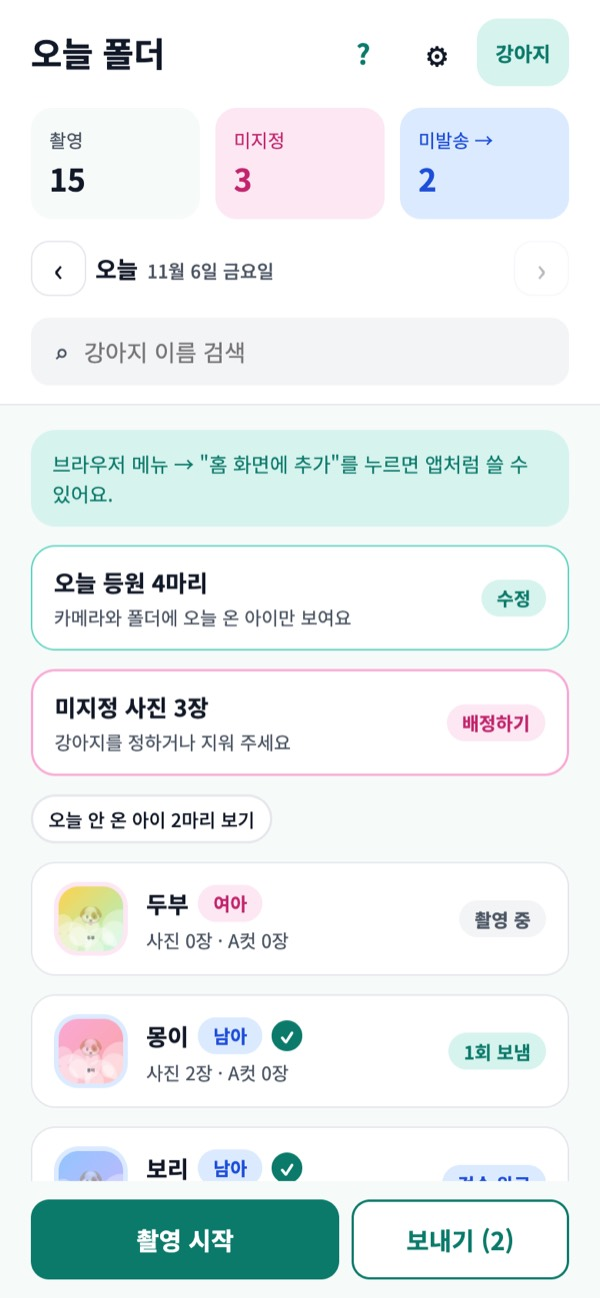
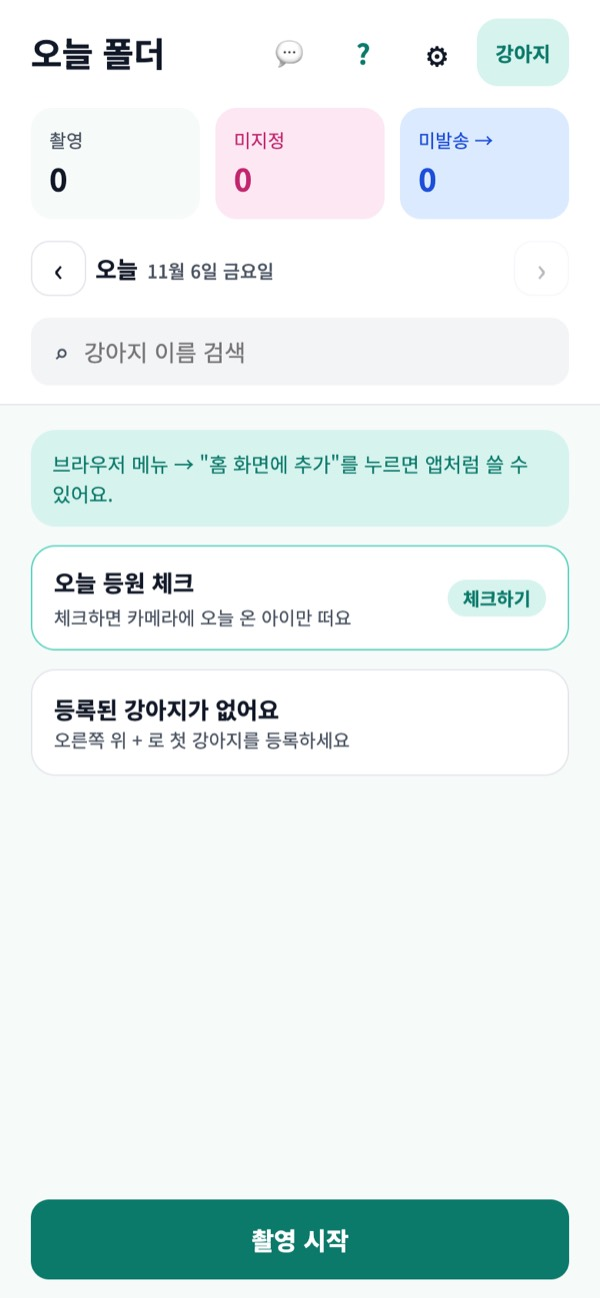
피드백 보내기: 유형·제목·내용·사진 3장, PostHog feedback 이벤트로 전송(사진 축소), 오늘 폴더 💬·설정 카드 진입, 사용 안내 10장과 그림

diff --git a/web/src/screens/Feedback.tsx b/web/src/screens/Feedback.tsx
@@ -1,0 +1,114 @@
+import { useRef, useState } from 'react';
+import { useLocation, useNavigate } from 'react-router-dom';
+
+import { TopBar } from '../components/ui';
+import { track } from '../lib/analytics';
+import { FEEDBACK_TYPES, preparePhotos, sendFeedback, type FeedbackType } from '../lib/feedbackSend';
+
+/** 피드백 보내기. 유형·제목·내용·사진(최대 3장). 전송은 PostHog 이벤트. */
+export function FeedbackScreen() {
+  const navigate = useNavigate();
+  const location = useLocation();
+  const from = new URLSearchParams(location.search).get('from') ?? 'unknown';
+  const [type, setType] = useState<FeedbackType>('friction');
+  const [title, setTitle] = useState('');
+  const [body, setBody] = useState('');
+  const [files, setFiles] = useState<File[]>([]);
+  const [urls, setUrls] = useState<string[]>([]);
+  const [busy, setBusy] = useState(false);
+  const [done, setDone] = useState<'sent' | 'offline' | null>(null);
+  const input = useRef<HTMLInputElement>(null);
+
+  const addFiles = (list: FileList | null) => {
+    if (!list) return;
+    const next = [...files, ...Array.from(list).filter((f) => f.type.startsWith('image/'))].slice(0, 3);
+    urls.forEach((u) => URL.revokeObjectURL(u));
+    setFiles(next);
+    setUrls(next.map((f) => URL.createObjectURL(f)));
+    if (input.current) input.current.value = '';
+  };
+  const removeAt = (i: number) => {
+    const next = files.filter((_, k) => k !== i);
+    URL.revokeObjectURL(urls[i]);
+    setFiles(next);
+    setUrls(next.map((f) => URL.createObjectURL(f)));
+  };
+
+  const valid = body.trim().length >= 2;
+
+  const submit = async () => {
+    if (!valid || busy) return;
+    setBusy(true);
+    try {
+      const photos = files.length ? await preparePhotos(files) : [];
+      const ok = sendFeedback({ type, title: title.trim(), body: body.trim(), photos, screen: from });
+      track('feedback_submitted', { feedback_type: type, has_title: !!title.trim(), body_length: body.trim().length, photo_count: photos.length, from });
+      setDone(ok ? 'sent' : 'offline');
+    } finally {
+      setBusy(false);
+    }
+  };
+
+  if (done) {
+    return (
+      <div className="screen">
+        <TopBar title="피드백" onBack={() => navigate(-1)} />
+        <main className="body" style={{ alignItems: 'center', textAlign: 'center', paddingTop: 48, gap: 14 }}>
+          <span className="check check--on" style={{ width: 56, height: 56, borderRadius: 28, fontSize: 26 }}>✓</span>
+          <div className="title" style={{ fontSize: 18 }}>{done === 'sent' ? '보냈어요. 고맙습니다!' : '저장했어요'}</div>
+          <span className="sub">
+            {done === 'sent' ? '하나하나 읽고 다음 업데이트에 반영할게요.' : '지금 이 버전은 전송이 꺼져 있어 폰에만 남았어요. 캡처해서 직접 보내 주세요.'}
+          </span>
+          <button type="button" className="btn" style={{ width: 'auto', padding: '0 28px' }} onClick={() => navigate(-1)}>돌아가기</button>
+        </main>
+      </div>
+    );
+  }
+
+  return (
+    <div className="screen">
+      <TopBar title="피드백 보내기" onBack={() => navigate(-1)} />
+      <main className="body" style={{ gap: 18, paddingBottom: 120 }}>
+        <span className="sub">안 되는 것, 불편한 것, 있었으면 하는 것. 짧아도 좋아요. 화면 캡처를 같이 붙이면 훨씬 빨리 고쳐요.</span>
+
+        <div className="field">
+          <label className="label" htmlFor="fb-type">어떤 내용인가요 <span className="required">*</span></label>
+          <select id="fb-type" className="input" value={type} onChange={(e) => setType(e.target.value as FeedbackType)}>
+            {FEEDBACK_TYPES.map((t) => <option key={t.value} value={t.value}>{t.label}</option>)}
+          </select>
+        </div>
+
+        <div className="field">
+          <label className="label" htmlFor="fb-title">제목 <span className="sub">(선택)</span></label>
+          <input id="fb-title" className="input" value={title} onChange={(e) => setTitle(e.target.value)} placeholder="예: 영상 보내기가 중간에 멈춰요" maxLength={60} />
+        </div>
+
+        <div className="field">
+          <label className="label" htmlFor="fb-body">내용 <span className="required">*</span></label>
+          <textarea id="fb-body" className="input" style={{ height: 140 }} value={body} onChange={(e) => setBody(e.target.value)} placeholder="언제, 어느 화면에서, 무엇을 했더니 어떻게 됐는지 적어 주세요" maxLength={2000} />
+          <span className="sub" style={{ alignSelf: 'flex-end' }}>{body.length} / 2000</span>
+        </div>
+
+        <div className="field">
+          <span className="label">사진 <span className="sub">(선택, 최대 3장)</span></span>
+          <div style={{ display: 'flex', gap: 8, flexWrap: 'wrap' }}>
+            {urls.map((u, i) => (
+              <span key={u} className="cell" style={{ width: 84, height: 84, aspectRatio: 'auto' }}>
+                <img src={u} alt="" />
+                <button type="button" className="cell__del" aria-label="사진 빼기" onClick={() => removeAt(i)}>✕</button>
+              </span>
+            ))}
+            {files.length < 3 ? (
+              <button type="button" className="fb-add" onClick={() => input.current?.click()}>+<br /><small>캡처·사진</small></button>
+            ) : null}
+          </div>
+          <input ref={input} type="file" accept="image/*" multiple style={{ display: 'none' }} onChange={(e) => addFiles(e.target.files)} />
+          <span className="sub">사진은 작게 줄여서 보내져요. 강아지 사진이 들어가도 괜찮아요.</span>
+        </div>
+      </main>
+      <footer className="footer">
+        <button type="button" className="btn" disabled={!valid || busy} onClick={submit}>{busy ? '보내는 중…' : '보내기'}</button>
+      </footer>
+    </div>
+  );
+}

diff --git a/web/src/screens/Guide.tsx b/web/src/screens/Guide.tsx
@@ -20,6 +20,7 @@ const TOC = [
   ['send', '7. 보호자에게 보내기'],
   ['settings', '8. 설정과 저장공간'],
   ['faq', '9. 주의사항과 자주 묻는 질문'],
+  ['feedback', '10. 피드백 보내기'],
 ] as const;
 
 export function GuideScreen() {
@@ -65,7 +66,7 @@ export function GuideScreen() {
             <li>강아지 목록. 오른쪽 표시가 상태입니다: 촬영 중 → 검수 전(또는 검수 완료) → 미발송 N · N회 보냄 → N회 보냄</li>
             <li>맨 아래 촬영 시작, 보낼 게 있으면 보내기 버튼</li>
           </ul>
-          <p>오른쪽 위 ⚙은 설정, 그 옆 강아지 버튼은 강아지 등록·수정입니다.</p>
+          <p>오른쪽 위 💬는 피드백 보내기, ?는 이 안내, ⚙은 설정, 그 옆 강아지 버튼은 강아지 등록·수정입니다.</p>
           <Shot src="01-folders" alt="오늘 폴더 화면" />
         </Section>
 
@@ -200,7 +201,20 @@ export function GuideScreen() {
             ['다시 보내기가 막혀요', '자동 정리로 원본이 지워진 사진이에요. 설정에서 정리 기간을 늘리세요'],
             ['폰이 뜨거워져요', '4K 미리보기를 계속 켜 두면 그래요. 촬영 사이에는 ✕로 나가 있으세요'],
           ]} />
-          <p><b>테스트 기간에 부탁드리는 것.</b> 쓰다가 막히거나 이상한 점이 있으면 그 화면을 캡처해서 보내 주세요. 특히 "찍기 전에 강아지 고르기"가 번거로운지, 아니면 "막 찍고 나중에 붙이기"가 편한지 알려 주시면 큰 도움이 됩니다.</p>
+          <p><b>테스트 기간에 부탁드리는 것.</b> 쓰다가 막히거나 이상한 점이 있으면 아래 10장의 피드백 보내기로 그 화면 캡처와 함께 보내 주세요. 특히 "찍기 전에 강아지 고르기"가 번거로운지, 아니면 "막 찍고 나중에 붙이기"가 편한지 알려 주시면 큰 도움이 됩니다.</p>
+        </Section>
+
+        <Section id="feedback" title="10. 피드백 보내기">
+          <p>앱 안에서 바로 보낼 수 있어요. 오늘 폴더 오른쪽 위 <b>💬</b> 또는 설정의 <b>피드백 보내기</b>.</p>
+          <Table head={['항목', '입력', '비고']} rows={[
+            ['어떤 내용인가요', '필수', '오류·안 됨 / 불편한 점 / 있었으면 하는 기능 / 좋았던 점 / 기타 중 하나'],
+            ['제목', '선택', '한 줄 요약. 예: 영상 보내기가 중간에 멈춰요'],
+            ['내용', '필수', '언제, 어느 화면에서, 무엇을 했더니 어떻게 됐는지'],
+            ['사진', '선택, 최대 3장', '화면 캡처나 사진. 작게 줄여서 보내져요'],
+          ]} />
+          <Shot src="27-feedback" alt="피드백 보내기 화면" />
+          <p><b>화면 캡처 붙이는 법.</b> 아이폰은 옆 버튼과 음량 올리기를 동시에, 안드로이드는 전원과 음량 내리기를 동시에 누르면 캡처돼요. 피드백 화면에서 <b>+ 캡처·사진</b>을 눌러 방금 캡처한 걸 고르면 됩니다.</p>
+          <p><b>보내기</b>를 누르면 "보냈어요"가 뜨고 끝이에요. 답장은 다음 업데이트와 사용 안내 갱신으로 드립니다. 보낸 피드백 수는 설정의 피드백 카드에 표시돼요.</p>
         </Section>
 
         <a href="#top" className="btn btn--ghost" onClick={(e) => { e.preventDefault(); window.scrollTo({ top: 0, behavior: 'smooth' }); }}>맨 위로</a>

diff --git a/web/src/lib/feedbackSend.ts b/web/src/lib/feedbackSend.ts
@@ -1,0 +1,75 @@
+/**
+ * 피드백 전송. 서버가 없으므로 PostHog 이벤트 `feedback`로 보낸다 (제목·내용·유형·화면 + 축소한 사진 최대 3장).
+ * PostHog는 이벤트 1건이 1MB를 넘으면 버리므로 사진 합계를 700KB 아래로 맞춘다.
+ */
+import posthog from 'posthog-js';
+
+export const FEEDBACK_TYPES = [
+  { value: 'bug', label: '오류·안 됨' },
+  { value: 'friction', label: '불편한 점' },
+  { value: 'idea', label: '있었으면 하는 기능' },
+  { value: 'praise', label: '좋았던 점' },
+  { value: 'other', label: '기타' },
+] as const;
+export type FeedbackType = (typeof FEEDBACK_TYPES)[number]['value'];
+
+const MAX_PHOTOS = 3;
+const TOTAL_BUDGET = 700 * 1024;
+
+/** 긴 변 maxSide, JPEG 품질 q 로 줄여 data URL. */
+async function shrink(file: Blob, maxSide: number, q: number): Promise<string> {
+  const bmp = await createImageBitmap(file, { imageOrientation: 'from-image' });
+  const s = Math.min(1, maxSide / Math.max(bmp.width, bmp.height));
+  const c = document.createElement('canvas');
+  c.width = Math.round(bmp.width * s); c.height = Math.round(bmp.height * s);
+  const ctx = c.getContext('2d');
+  if (!ctx) throw new Error('canvas');
+  ctx.drawImage(bmp, 0, 0, c.width, c.height);
+  bmp.close();
+  return c.toDataURL('image/jpeg', q);
+}
+
+/** 사진들을 예산 안에 들어올 때까지 단계적으로 줄인다. */
+export async function preparePhotos(files: Blob[]): Promise<string[]> {
+  const picked = files.slice(0, MAX_PHOTOS);
+  const steps: [number, number][] = [[1024, 0.7], [800, 0.6], [640, 0.5], [480, 0.45]];
+  for (const [side, q] of steps) {
+    const urls = await Promise.all(picked.map((f) => shrink(f, side, q)));
+    const bytes = urls.reduce((n, u) => n + u.length * 0.75, 0);
+    if (bytes <= TOTAL_BUDGET) return urls;
+  }
+  return Promise.all(picked.map((f) => shrink(f, 400, 0.4)));
+}
+
+export type FeedbackInput = { type: FeedbackType; title: string; body: string; photos: string[]; screen: string };
+
+const SENT_KEY = 'harumung.feedback.sent';
+export type SentFeedback = { at: string; type: FeedbackType; title: string; photos: number };
+
+export function listSentFeedback(): SentFeedback[] {
+  try { return JSON.parse(localStorage.getItem(SENT_KEY) ?? '[]'); } catch { return []; }
+}
+
+/** 전송. PostHog가 꺼져 있으면(키 없음) false. */
+export function sendFeedback(input: FeedbackInput): boolean {
+  const enabled = !!(import.meta.env.VITE_POSTHOG_KEY as string | undefined);
+  if (enabled) {
+    posthog.capture('feedback', {
+      feedback_type: input.type,
+      title: input.title || null,
+      body: input.body,
+      screen: input.screen,
+      photo_count: input.photos.length,
+      photo_1: input.photos[0] ?? null,
+      photo_2: input.photos[1] ?? null,
+      photo_3: input.photos[2] ?? null,
+      ua: navigator.userAgent,
+    });
+  }
+  try {
+    const list = listSentFeedback();
+    list.unshift({ at: new Date().toISOString(), type: input.type, title: input.title, photos: input.photos.length });
+    localStorage.setItem(SENT_KEY, JSON.stringify(list.slice(0, 50)));
+  } catch { /* 무시 */ }
+  return enabled;
+}

diff --git a/web/src/screens/Settings.tsx b/web/src/screens/Settings.tsx
@@ -6,6 +6,7 @@ import { TopBar } from '../components/ui';
 import { emptyTrash, listActiveDogs, listPurgeCandidates, purgeOriginals, storageStats, wipeAll } from '../db/repo';
 import { PURGE_OPTIONS, getPurgeDays, isIOS, isStandalone, requestPersistentStorage, setPurgeDays } from '../lib/settings';
 import { getPartner, setPartner, track } from '../lib/analytics';
+import { listSentFeedback } from '../lib/feedbackSend';
 import { formatBytes } from '../lib/share';
 
 /** 설정: 저장공간·자동 정리·홈 화면 설치·앱 정보. 서버 없는 동안 폰 저장공간 관리가 핵심. */
@@ -97,6 +98,14 @@ export function SettingsScreen() {
           <span style={{ flex: 1, display: 'flex', flexDirection: 'column', gap: 3 }}>
             <span className="title">사용 안내</span>
             <span className="sub">등록 → 등원 체크 → 촬영 → 검수 → 보내기, 화면 그림과 함께</span>
+          </span>
+          <span className="sub">열기 ›</span>
+        </Link>
+        <Link to="/feedback?from=settings" className="card card--row" style={{ color: 'inherit' }} onClick={() => track('feedback_opened', { from: 'settings' })}>
+          <span style={{ width: 40, height: 40, borderRadius: 12, background: 'var(--blue-light)', display: 'flex', alignItems: 'center', justifyContent: 'center', fontSize: 20, flex: '0 0 auto' }}>💬</span>
+          <span style={{ flex: 1, display: 'flex', flexDirection: 'column', gap: 3 }}>
+            <span className="title">피드백 보내기</span>
+            <span className="sub">오류·불편·제안을 사진과 함께{listSentFeedback().length ? ` · 보낸 피드백 ${listSentFeedback().length}건` : ''}</span>
           </span>
           <span className="sub">열기 ›</span>
         </Link>

diff --git a/web/src/screens/Folders.tsx b/web/src/screens/Folders.tsx
@@ -44,6 +44,7 @@ export function FoldersScreen() {
             <h1 style={{ fontSize: 22 }}>{relativeLabel(date) ?? '지난'} 폴더</h1>
           </div>
           <div style={{ display: 'flex', gap: 4 }}>
+            <Link to="/feedback?from=folders" className="icon-btn" aria-label="피드백 보내기" style={{ fontSize: 18 }} onClick={() => track('feedback_opened', { from: 'folders' })}>💬</Link>
             <Link to="/guide" className="icon-btn" aria-label="사용 안내" style={{ fontSize: 18, fontWeight: 700, color: 'var(--mint)' }} onClick={() => track('guide_opened', { from: 'folders' })}>?</Link>
             <Link to="/settings" className="icon-btn" aria-label="설정" style={{ fontSize: 22 }}>⚙</Link>
             <Link to="/dogs" className="icon-btn icon-btn--mint" aria-label="강아지 관리" style={{ fontSize: 13, width: 'auto', padding: '0 12px' }}>강아지</Link>

diff --git a/web/src/styles.css b/web/src/styles.css
@@ -388,3 +388,8 @@ a.stat { color: inherit; }
 
 /* 설치 안내 */
 .install { background: var(--mint-light); color: var(--mint); border-radius: var(--r-card); padding: 12px 14px; font-size: 13px; line-height: 1.5; }
+
+/* 피드백 */
+.fb-add { width: 84px; height: 84px; border-radius: 10px; border: 2px dashed var(--mint-mid); background: var(--surface); color: var(--mint); font-weight: 700; font-size: 22px; line-height: 1.1; }
+.fb-add small { font-size: 11px; font-weight: 500; }
+select.input { appearance: none; -webkit-appearance: none; background-image: linear-gradient(45deg, transparent 50%, var(--text-2) 50%), linear-gradient(135deg, var(--text-2) 50%, transparent 50%); background-position: calc(100% - 18px) 20px, calc(100% - 13px) 20px; background-size: 5px 5px; background-repeat: no-repeat; padding-right: 36px; }

diff --git a/web/src/App.tsx b/web/src/App.tsx
@@ -8,6 +8,7 @@ import { runAutoPurge } from './lib/autoPurge';
 import { AttendanceScreen } from './screens/Attendance';
 import { CameraScreen } from './screens/Camera';
 import { DogFormScreen } from './screens/DogForm';
+import { FeedbackScreen } from './screens/Feedback';
 import { DogsScreen } from './screens/Dogs';
 import { FolderReviewScreen } from './screens/FolderReview';
 import { FoldersScreen } from './screens/Folders';
@@ -45,6 +46,7 @@ export default function App() {
       <Route path="/send" element={<SendScreen />} />
       <Route path="/settings" element={<SettingsScreen />} />
       <Route path="/guide" element={<GuideScreen />} />
+      <Route path="/feedback" element={<FeedbackScreen />} />
       <Route path="*" element={<Navigate to="/folders" replace />} />
     </Routes>
   );
